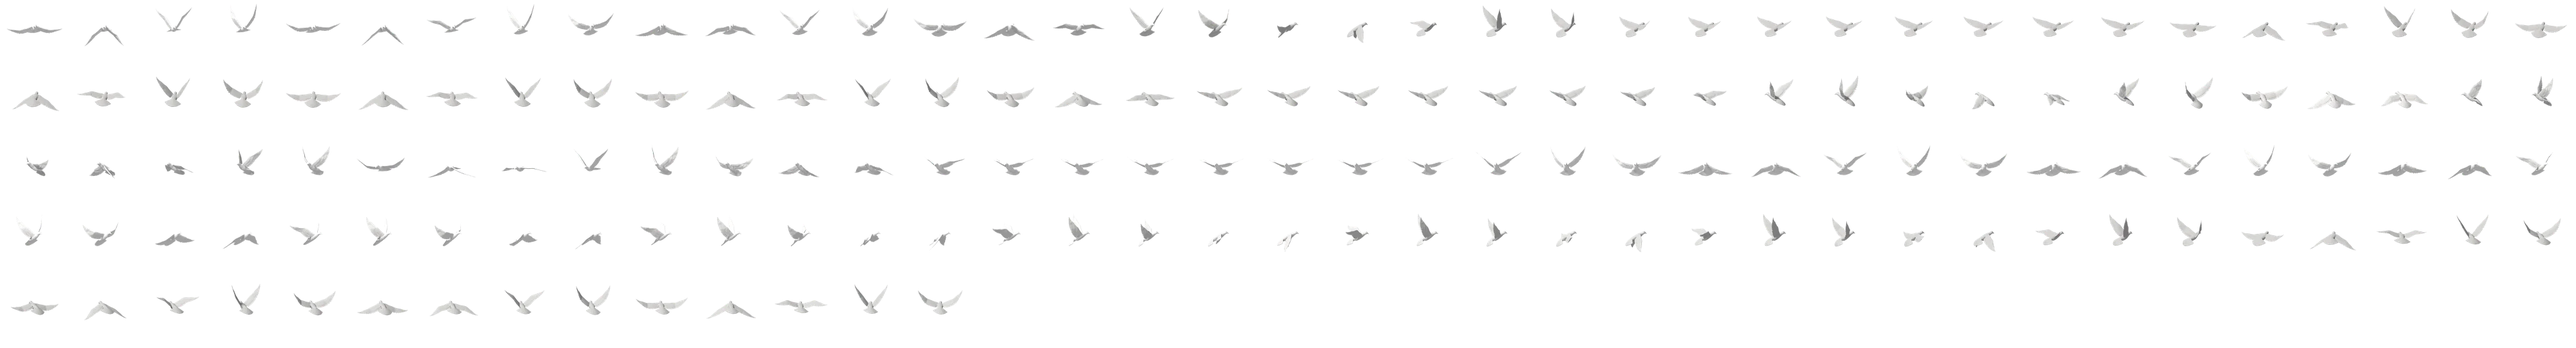
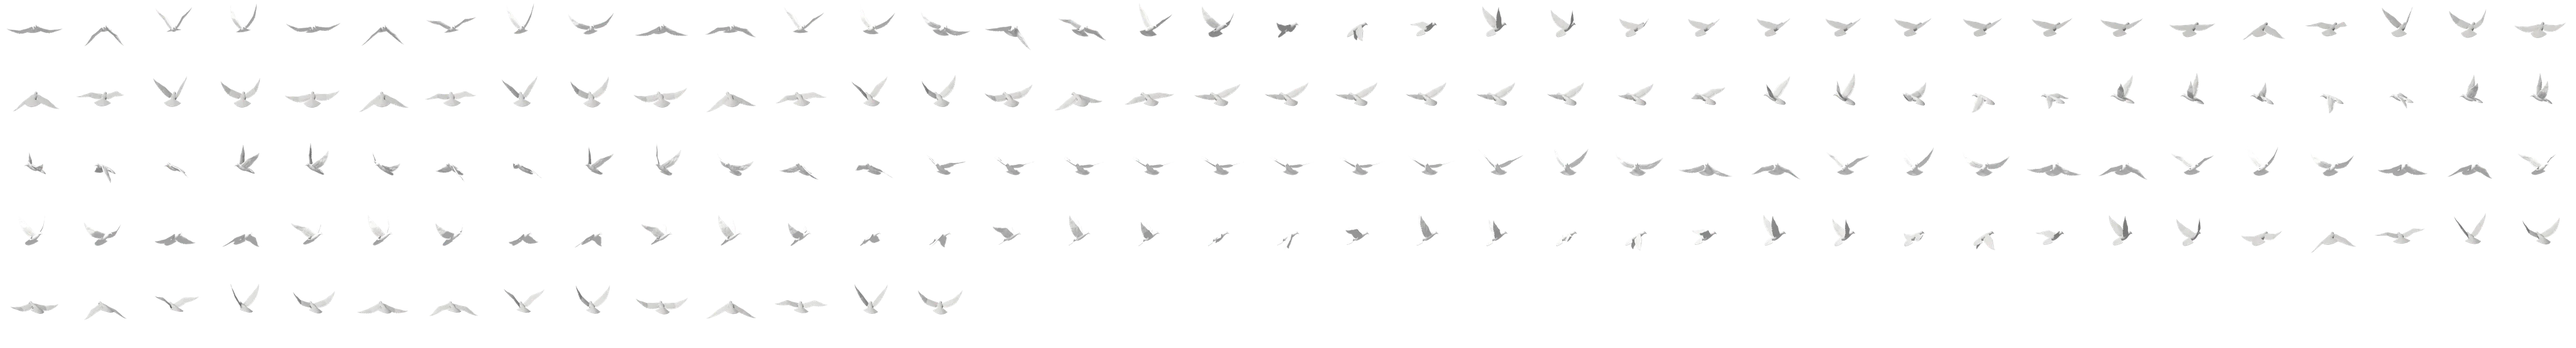
iOS port snapshot for cd3ee07

diff --git a/apps/ios/Sources/Ezer/Components/CameraDoveFrames.swift b/apps/ios/Sources/Ezer/Components/CameraDoveFrames.swift
@@ -19,12 +19,12 @@ enum CameraDoveFrames {
     static let bandRef: Double = 39.5
     static let posMin: Double = 0.75
     static let paths: [CameraDovePath] = [
-        CameraDovePath(id: "a", cell: 47.158, cols: 37, rows: 5, ni: 21, nl: 120, no: 21, sheet: "dove-camera-a",
-                       f: [0, -0.03, 0.4, 0, 0.12, 5.74, 0.451, 0.25, 0.85, 12.96, 0.5062, 0.5, 2.47, 19.94, 0.5653, 0.75, 5, 25.46, 0.6254, 1, 8.27, 29.13, 0.6824, 1, 12.03, 31.94, 0.7338, 1, 16, 33.2, 0.78, 1, 19.92, 33.06, 0.8249, 1, 23.44, 32.43, 0.8693, 1, 26.32, 32.45, 0.9124, 1, 28.52, 33.87, 0.9535, 1, 30.09, 34.29, 0.9916, 1, 31.21, 33.77, 1.0259, 1, 32.1, 32.92, 1.0556, 1, 33.02, 33.46, 1.08, 1, 34.23, 34.82, 1.0988, 1, 35.93, 34.78, 1.1118, 1, 38.29, 33.94, 1.1191, 1, 41.32, 32.99, 1.1212, 1, 44.94, 33.68, 1.1194, 1, 48.88, 34.84, 1.1151, 1, 52.74, 34.64, 1.11, 1, 56.46, 34.06, 1.1045, 1, 60, 34.02, 1.0988, 1, 63.38, 34.12, 1.0927, 1, 66.58, 34.23, 1.0864, 1, 69.59, 34.36, 1.0798, 1, 72.42, 34.47, 1.0729, 1, 75.07, 34.57, 1.0659, 1, 77.53, 34.63, 1.0586, 1, 79.8, 34.49, 1.0512, 1, 81.89, 33.82, 1.0436, 1, 83.79, 34.38, 1.0359, 1, 85.51, 35.39, 1.028, 1, 87.05, 35.12, 1.02, 1, 88.41, 34.2, 1.0119, 1, 89.6, 33.23, 1.0037, 1, 90.61, 33.69, 0.9953, 1, 91.44, 34.56, 0.9869, 1, 92.1, 34.25, 0.9784, 1, 92.59, 33.33, 0.9697, 1, 92.9, 32.34, 0.961, 1, 93.03, 32.67, 0.9522, 1, 92.99, 33.52, 0.9433, 1, 92.76, 33.28, 0.9343, 1, 92.36, 32.45, 0.9253, 1, 91.77, 31.49, 0.9163, 1, 91.01, 31.64, 0.9073, 1, 90.07, 32.56, 0.8983, 1, 88.96, 32.51, 0.8894, 1, 87.67, 31.86, 0.8805, 1, 86.22, 31.07, 0.8717, 1, 84.58, 31.24, 0.863, 1, 82.76, 31.56, 0.8542, 1, 80.73, 31.62, 0.8454, 1, 78.47, 31.65, 0.8366, 1, 75.96, 31.68, 0.8276, 1, 73.17, 31.71, 0.8186, 1, 70.07, 31.73, 0.8095, 1, 66.61, 31.68, 0.8003, 1, 62.77, 31.57, 0.791, 1, 58.49, 32.08, 0.7817, 1, 53.74, 32.18, 0.7726, 1, 48.47, 31.59, 0.7636, 1, 42.68, 30.77, 0.7551, 1, 36.34, 30.68, 0.7472, 1, 29.48, 31.47, 0.7403, 1, 21.46, 28.69, 0.7231, 1, 12.91, 21.49, 0.6918, 1, 5.19, 12.92, 0.6571, 1, -1.21, 6.39, 0.6296, 1, -6.8, 4.4, 0.6194, 1, -12.3, 4.51, 0.6221, 1, -17.56, 4.12, 0.6262, 1, -22.5, 3.54, 0.6314, 1, -27.07, 3.62, 0.6375, 1, -31.26, 4.42, 0.6442, 1, -35.05, 4.54, 0.6513, 1, -40.18, 6.93, 0.6707, 1, -47.81, 12.97, 0.7073, 1, -56.59, 20.99, 0.7503, 1, -64.72, 28.69, 0.7882, 1, -69.97, 31.82, 0.8092, 1, -72.81, 31.47, 0.8175, 1, -75.37, 30.87, 0.8257, 1, -77.69, 30.97, 0.8337, 1, -79.78, 31.79, 0.8416, 1, -81.68, 31.98, 0.8494, 1, -83.4, 32.2, 0.8572, 1, -84.97, 32.47, 0.865, 1, -86.39, 32.75, 0.8727, 1, -87.67, 33.03, 0.8805, 1, -88.83, 33.31, 0.8885, 1, -89.86, 33.6, 0.8965, 1, -90.76, 34.14, 0.9048, 1, -91.53, 34.77, 0.9132, 1, -92.15, 34.55, 0.9217, 1, -92.61, 33.88, 0.9304, 1, -92.91, 33.75, 0.9393, 1, -93.04, 34.97, 0.9484, 1, -92.97, 35.57, 0.9576, 1, -92.71, 35.21, 0.9669, 1, -92.23, 34.42, 0.9764, 1, -91.53, 34.13, 0.9859, 1, -90.6, 35.34, 0.9954, 1, -89.42, 35.98, 1.005, 1, -87.99, 35.58, 1.0145, 1, -86.31, 34.72, 1.024, 1, -84.38, 34.4, 1.0333, 1, -82.2, 35.67, 1.0424, 1, -79.77, 36.29, 1.0513, 1, -77.09, 35.82, 1.06, 1, -74.18, 34.89, 1.0683, 1, -71.05, 34.57, 1.0763, 1, -67.7, 35.89, 1.084, 1, -64.15, 36.45, 1.0912, 1, -60.41, 35.93, 1.0981, 1, -56.5, 34.94, 1.1045, 1, -52.43, 34.58, 1.1104, 1, -48.21, 35.87, 1.1159, 1, -43.85, 36.45, 1.1209, 1, -39.38, 35.91, 1.1254, 1, -34.8, 34.88, 1.1294, 1, -30.14, 34.36, 1.1328, 1, -25.4, 35.55, 1.1358, 1, -20.6, 36.24, 1.1382, 1, -15.76, 35.74, 1.1402, 1, -10.88, 34.71, 1.1416, 1, -5.99, 33.97, 1.1425, 1, -1.1, 34.97, 1.1428, 1, 3.78, 35.83, 1.1427, 1, 8.63, 35.4, 1.1421, 1, 13.45, 34.39, 1.1409, 1, 18.2, 33.47, 1.1393, 1, 22.89, 34.26, 1.1371, 1, 27.49, 35.25, 1.1346, 1, 32.01, 34.92, 1.1315, 1, 36.41, 33.96, 1.128, 1, 40.7, 33.01, 1.1241, 1, 44.86, 33.7, 1.1198, 1, 48.88, 34.84, 1.1151, 1, 52.63, 34.69, 1.1098, 1, 55.65, 33.95, 1.1031, 1, 57.52, 33.31, 1.0942, 1, 58.06, 34.45, 1.0825, 1, 57.21, 35.97, 1.0677, 1, 55.07, 36.16, 1.0497, 1, 51.82, 35.68, 1.0285, 1, 47.73, 35.27, 1.0043, 1, 43.07, 36.37, 0.9773, 1, 38.17, 36.95, 0.9479, 1, 33.28, 36.07, 0.9165, 1, 28.65, 34.44, 0.8836, 1, 24.4, 33.14, 0.8496, 1, 20.56, 32.91, 0.815, 1, 17, 31.65, 0.78, 1, 13.36, 29.18, 0.7406, 0.8, 9.28, 24.82, 0.6832, 0.6, 5.22, 19.58, 0.6087, 0.4, 2.01, 13.41, 0.5294, 0.2, 0.32, 6.44, 0.4584, 0]),
-        CameraDovePath(id: "b", cell: 47.053, cols: 41, rows: 5, ni: 21, nl: 150, no: 21, sheet: "dove-camera-b",
-                       f: [0, -0.03, 0.4, 0, 0.26, 5.58, 0.4502, 0.25, 1.8, 12.03, 0.5013, 0.5, 5.15, 17.77, 0.5528, 0.75, 10.22, 22.17, 0.6036, 1, 16.54, 25.47, 0.6518, 1, 23.41, 28.85, 0.696, 1, 30.16, 31.14, 0.7352, 1, 36.37, 31.41, 0.7693, 1, 42, 30.57, 0.8, 1, 47.6, 30.21, 0.83, 1, 53.64, 31.14, 0.8601, 1, 60.19, 31.22, 0.89, 1, 67.02, 30.51, 0.9189, 1, 73.67, 29.57, 0.9462, 1, 79.55, 29.92, 0.9709, 1, 84.07, 31.09, 0.992, 1, 86.67, 31.06, 1.0088, 1, 87, 30.34, 1.0206, 1, 84.95, 29.55, 1.0271, 1, 80.76, 30.3, 1.0284, 1, 75.15, 31.5, 1.0251, 1, 69.12, 31.5, 1.0184, 1, 63.12, 30.91, 1.009, 1, 57.3, 30.31, 0.9979, 1, 51.68, 31.13, 0.9858, 1, 46.26, 32.41, 0.9731, 1, 41.05, 32.52, 0.9602, 1, 36.03, 32.02, 0.9474, 1, 30.64, 30.24, 0.9246, 1, 23.12, 23.18, 0.8492, 1, 15.9, 13.66, 0.7544, 1, 10.75, 5.73, 0.6832, 1, 7.82, 3.99, 0.6649, 1, 5.23, 3.44, 0.6565, 1, 2.69, 3.8, 0.6484, 1, 0.19, 4.52, 0.6406, 1, -2.28, 4.46, 0.633, 1, -4.72, 4, 0.6258, 1, -7.13, 3.47, 0.6188, 1, -9.8, 5.02, 0.6209, 1, -14.4, 13.53, 0.6697, 1, -20.73, 23.88, 0.7363, 1, -27.15, 30.92, 0.7833, 1, -31.48, 31.27, 0.7845, 1, -35.32, 31.42, 0.7775, 1, -39.14, 32.11, 0.771, 1, -42.93, 31.91, 0.7649, 1, -46.71, 31.2, 0.7591, 1, -50.47, 30.34, 0.7538, 1, -54.21, 30.37, 0.749, 1, -57.93, 31.09, 0.7446, 1, -61.62, 31.02, 0.7407, 1, -65.27, 30.42, 0.7374, 1, -68.87, 29.64, 0.7345, 1, -72.41, 29.56, 0.7322, 1, -75.87, 30.37, 0.7305, 1, -79.23, 30.55, 0.7294, 1, -82.49, 30.13, 0.729, 1, -85.66, 29.63, 0.7291, 1, -88.78, 29.76, 0.7299, 1, -91.89, 29.96, 0.7314, 1, -95.05, 30.01, 0.7338, 1, -98.26, 30.08, 0.7373, 1, -101.49, 29.97, 0.7422, 1, -104.58, 29.81, 0.7485, 1, -107.39, 30.57, 0.756, 1, -109.83, 31.02, 0.7645, 1, -111.88, 30.71, 0.7737, 1, -113.56, 30.06, 0.7834, 1, -114.9, 29.77, 0.7933, 1, -115.97, 30.69, 0.8035, 1, -116.78, 31.2, 0.8139, 1, -117.37, 30.87, 0.8244, 1, -117.76, 30.14, 0.8351, 1, -117.96, 29.76, 0.8459, 1, -117.99, 30.71, 0.8568, 1, -117.86, 31.27, 0.8679, 1, -117.56, 30.91, 0.8791, 1, -117.11, 30.13, 0.8903, 1, -116.5, 29.72, 0.9017, 1, -115.72, 30.75, 0.9131, 1, -114.78, 31.34, 0.9246, 1, -113.67, 30.94, 0.936, 1, -112.37, 30.11, 0.9473, 1, -110.89, 29.7, 0.9584, 1, -109.22, 30.79, 0.9692, 1, -107.36, 31.42, 0.9796, 1, -105.29, 31.01, 0.9894, 1, -103.03, 30.16, 0.9984, 1, -100.54, 29.72, 1.0066, 1, -97.79, 30.85, 1.0138, 1, -94.67, 31.57, 1.0201, 1, -91.02, 31.22, 1.0251, 1, -86.66, 30.42, 1.0283, 1, -81.52, 29.99, 1.0287, 1, -75.76, 31.2, 1.0257, 1, -69.71, 32.17, 1.0191, 1, -63.66, 32.05, 1.0099, 1, -57.76, 31.46, 0.9989, 1, -52.07, 31.1, 0.9867, 1, -46.57, 32.24, 0.9739, 1, -41.28, 33.36, 0.9608, 1, -36.18, 33.38, 0.9477, 1, -31.26, 32.9, 0.9348, 1, -26.48, 32.44, 0.9222, 1, -21.83, 33.29, 0.9098, 1, -17.3, 34.42, 0.8978, 1, -12.85, 34.34, 0.8861, 1, -8.5, 34.1, 0.8748, 1, -4.21, 34.1, 0.8639, 1, 0, 34.25, 0.8533, 1, 4.15, 34.16, 0.8432, 1, 8.25, 33.5, 0.8335, 1, 12.3, 33.82, 0.8242, 1, 16.3, 34.67, 0.8153, 1, 20.27, 34.57, 0.8067, 1, 24.19, 33.88, 0.7986, 1, 28.08, 33, 0.7909, 1, 31.94, 32.99, 0.7836, 1, 35.77, 33.73, 0.7767, 1, 39.57, 33.63, 0.7703, 1, 43.35, 32.93, 0.7642, 1, 47.11, 32.03, 0.7586, 1, 50.84, 31.89, 0.7534, 1, 54.55, 32.62, 0.7486, 1, 58.22, 32.58, 0.7443, 1, 61.87, 31.94, 0.7405, 1, 65.48, 31.1, 0.7372, 1, 69.03, 30.98, 0.7344, 1, 72.52, 31.76, 0.7322, 1, 75.92, 31.81, 0.7305, 1, 79.23, 31.27, 0.7294, 1, 82.44, 30.53, 0.729, 1, 85.57, 30.53, 0.7291, 1, 88.64, 31.25, 0.7298, 1, 91.71, 31.13, 0.7313, 1, 94.82, 30.97, 0.7336, 1, 97.99, 30.99, 0.737, 1, 101.18, 31.02, 0.7416, 1, 104.26, 31.22, 0.7477, 1, 107.08, 31.51, 0.7551, 1, 109.55, 31.25, 0.7634, 1, 111.63, 30.56, 0.7725, 1, 113.35, 30.57, 0.7821, 1, 114.74, 31.53, 0.792, 1, 115.84, 31.74, 0.8021, 1, 116.69, 31.26, 0.8125, 1, 117.31, 30.49, 0.8231, 1, 117.72, 30.34, 0.8338, 1, 117.95, 31.32, 0.8447, 1, 118, 31.64, 0.8557, 1, 117.88, 31.19, 0.8669, 1, 117.59, 30.38, 0.8782, 1, 117.14, 30.03, 0.8896, 1, 116.53, 31, 0.9011, 1, 115.75, 31.53, 0.9127, 1, 114.8, 31.13, 0.9243, 1, 113.68, 30.31, 0.9359, 1, 112.37, 29.76, 0.9473, 1, 110.86, 30.65, 0.9586, 1, 109.16, 31.4, 0.9696, 1, 107.26, 31.09, 0.9801, 1, 105.16, 30.27, 0.9899, 1, 102.86, 29.56, 0.999, 1, 100.33, 30.35, 1.0072, 1, 97.52, 31.3, 1.0144, 1, 94.34, 31.1, 1.0206, 1, 90.61, 30.32, 1.0255, 1, 86.16, 29.56, 1.0285, 1, 80.94, 30.33, 1.0286, 1, 75.15, 31.5, 1.0251, 1, 69.11, 31.52, 1.0184, 1, 63.06, 31.07, 1.009, 1, 57.17, 30.8, 0.9975, 1, 51.56, 32.23, 0.9841, 1, 46.33, 34, 0.9688, 1, 41.5, 34.53, 0.9514, 1, 37.1, 34.34, 0.9317, 1, 33.11, 34.06, 0.9097, 1, 29.48, 34.97, 0.8852, 1, 26.15, 35.26, 0.8584, 1, 23.02, 34.14, 0.8298, 1, 20, 32.41, 0.8, 1, 16.96, 31.13, 0.7695, 1, 13.77, 30.66, 0.7365, 1, 10.47, 28.72, 0.6994, 1, 7.27, 25.3, 0.6577, 0.8, 4.42, 20.94, 0.6116, 0.6, 2.2, 16.76, 0.5617, 0.4, 0.76, 12.11, 0.5091, 0.2, 0.11, 6.21, 0.4549, 0]),
-        CameraDovePath(id: "c", cell: 47.218, cols: 35, rows: 7, ni: 21, nl: 170, no: 21, sheet: "dove-camera-c",
-                       f: [0, -0.03, 0.4, 0, 0.33, 5.58, 0.4491, 0.25, 2.28, 11.98, 0.4939, 0.5, 6.54, 17.61, 0.5327, 0.75, 13.04, 21.89, 0.566, 1, 21.18, 25.08, 0.5956, 1, 30.12, 28.24, 0.624, 1, 39.03, 30.3, 0.6535, 1, 47.34, 30.48, 0.6855, 1, 55, 29.61, 0.72, 1, 62.49, 29.15, 0.7554, 1, 69.86, 29.82, 0.7926, 1, 76.95, 29.61, 0.8325, 1, 83.55, 28.56, 0.8752, 1, 89.48, 27.19, 0.9202, 1, 94.58, 27, 0.9663, 1, 98.82, 27.64, 1.0122, 1, 102.23, 27.08, 1.0563, 1, 105.06, 25.8, 1.0971, 1, 107.71, 24.43, 1.1333, 1, 110.85, 24.75, 1.164, 1, 115.4, 25.58, 1.1887, 1, 122.31, 24.94, 1.2054, 1, 129.64, 23.63, 1.2067, 1, 135.15, 22.45, 1.197, 1, 138.97, 23.14, 1.1822, 1, 141.62, 24.24, 1.1652, 1, 143.48, 23.93, 1.1474, 1, 144.75, 22.96, 1.1293, 1, 145.57, 22.09, 1.1108, 1, 145.96, 22.96, 1.092, 1, 145.93, 24.05, 1.073, 1, 145.49, 23.87, 1.0535, 1, 144.67, 23.14, 1.0338, 1, 143.5, 22.59, 1.0139, 1, 142.06, 23.71, 0.994, 1, 140.41, 24.85, 0.9743, 1, 138.6, 24.84, 0.9548, 1, 136.64, 24.36, 0.9357, 1, 134.56, 24.11, 0.917, 1, 132.34, 25.35, 0.8987, 1, 129.98, 26.42, 0.8808, 1, 127.44, 26.47, 0.8633, 1, 124.7, 26.08, 0.8462, 1, 121.69, 25.94, 0.8293, 1, 118.36, 27.1, 0.8128, 1, 114.7, 28.02, 0.7967, 1, 110.76, 28.03, 0.7811, 1, 106.63, 27.69, 0.7661, 1, 102.39, 27.6, 0.7519, 1, 98.11, 28.73, 0.7383, 1, 93.83, 29.62, 0.7254, 1, 89.58, 29.7, 0.7132, 1, 85.37, 29.44, 0.7018, 1, 81.19, 29.37, 0.6911, 1, 77.01, 30.36, 0.681, 1, 72.83, 31.18, 0.6715, 1, 68.63, 31.23, 0.6626, 1, 64.37, 30.92, 0.6543, 1, 60.02, 30.7, 0.6465, 1, 55.53, 31.42, 0.6394, 1, 50.98, 32.04, 0.6332, 1, 46.4, 31.88, 0.6277, 1, 41.72, 31.33, 0.6228, 1, 37.07, 30.79, 0.6184, 1, 32.59, 31.17, 0.6141, 1, 28.38, 31.69, 0.6099, 1, 24.18, 30.77, 0.6032, 1, 18.77, 25.2, 0.5824, 1, 13.44, 17.07, 0.5535, 1, 9.06, 9.74, 0.5253, 1, 6.01, 5.18, 0.506, 1, 4.12, 4.35, 0.5013, 1, 2.25, 3.98, 0.4998, 1, 0.28, 3.57, 0.4998, 1, -1.56, 3.86, 0.5023, 1, -3.11, 4.41, 0.5065, 1, -4.6, 5.13, 0.5141, 1, -7.15, 9.84, 0.5373, 1, -11.19, 17.06, 0.5707, 1, -16.68, 25.09, 0.6049, 1, -23.03, 30.87, 0.6296, 1, -28.81, 31.6, 0.638, 1, -34.78, 31.2, 0.6438, 1, -41.01, 30.81, 0.6509, 1, -47.03, 31.43, 0.6604, 1, -52.43, 32.26, 0.6728, 1, -57.16, 32.28, 0.6875, 1, -61.43, 31.93, 0.7039, 1, -65.37, 31.98, 0.722, 1, -69.08, 32.16, 0.7416, 1, -72.62, 32.17, 0.7628, 1, -76.04, 32.07, 0.7857, 1, -79.37, 31.68, 0.8105, 1, -82.65, 30.83, 0.8371, 1, -85.85, 30.73, 0.8659, 1, -88.95, 30.76, 0.897, 1, -91.92, 29.63, 0.9305, 1, -94.73, 27.97, 0.9661, 1, -97.36, 26.55, 1.003, 1, -99.85, 26.89, 1.04, 1, -102.28, 27.33, 1.0753, 1, -104.67, 26.62, 1.107, 1, -107.01, 25.37, 1.1333, 1, -109.48, 24.33, 1.1553, 1, -112.88, 25.07, 1.1772, 1, -118.56, 25.63, 1.1986, 1, -126.14, 24.82, 1.2079, 1, -132.61, 23.53, 1.2028, 1, -137.19, 22.58, 1.1901, 1, -140.36, 23.52, 1.1742, 1, -142.57, 24.45, 1.157, 1, -144.12, 24.05, 1.1392, 1, -145.16, 23.09, 1.1212, 1, -145.78, 22.3, 1.1029, 1, -146, 23.22, 1.0843, 1, -145.81, 24.28, 1.0653, 1, -145.22, 24.14, 1.046, 1, -144.27, 23.47, 1.0265, 1, -143.02, 22.9, 1.0069, 1, -141.53, 23.84, 0.9873, 1, -139.84, 25.1, 0.9679, 1, -138, 25.24, 0.9488, 1, -136.03, 24.85, 0.93, 1, -133.94, 24.45, 0.9117, 1, -131.7, 25.34, 0.8937, 1, -129.31, 26.65, 0.8761, 1, -126.74, 26.91, 0.8588, 1, -123.95, 26.63, 0.8418, 1, -120.87, 26.27, 0.8251, 1, -117.46, 27, 0.8087, 1, -113.72, 28.22, 0.7927, 1, -109.72, 28.49, 0.7773, 1, -105.55, 28.25, 0.7625, 1, -101.29, 27.94, 0.7483, 1, -97, 28.64, 0.7348, 1, -92.72, 29.83, 0.7221, 1, -88.47, 30.14, 0.71, 1, -84.26, 29.95, 0.6988, 1, -80.06, 29.68, 0.6881, 1, -75.85, 30.35, 0.6781, 1, -71.62, 31.4, 0.6687, 1, -67.34, 31.6, 0.6598, 1, -62.97, 31.33, 0.6516, 1, -58.47, 30.99, 0.644, 1, -53.89, 31.52, 0.6373, 1, -49.26, 32.26, 0.6315, 1, -44.58, 32.14, 0.6263, 1, -39.8, 31.58, 0.6216, 1, -35.14, 30.99, 0.6171, 1, -30.74, 31.37, 0.6126, 1, -26.71, 31.87, 0.608, 1, -22.79, 30.88, 0.6009, 1, -17.79, 25.23, 0.5799, 1, -12.84, 17.09, 0.551, 1, -8.67, 9.86, 0.5226, 1, -5.72, 5.21, 0.503, 1, -3.85, 4.29, 0.4979, 1, -1.99, 3.87, 0.4962, 1, 0, 3.55, 0.4964, 1, 1.79, 4.03, 0.4993, 1, 3.24, 4.45, 0.5038, 1, 4.63, 5.05, 0.5117, 1, 7.04, 9.67, 0.535, 1, 10.82, 16.93, 0.5684, 1, 15.93, 25.1, 0.6029, 1, 21.82, 30.72, 0.6283, 1, 27.33, 31.36, 0.6372, 1, 33.15, 30.94, 0.6429, 1, 39.36, 30.63, 0.6493, 1, 45.51, 31.34, 0.6578, 1, 51.11, 32.14, 0.6693, 1, 55.98, 32.09, 0.6833, 1, 60.32, 31.98, 0.6992, 1, 64.3, 32.06, 0.7166, 1, 68.02, 32.16, 0.7355, 1, 71.55, 32.2, 0.756, 1, 74.94, 32.19, 0.778, 1, 78.24, 31.81, 0.8018, 1, 81.49, 30.83, 0.8274, 1, 84.66, 30.84, 0.855, 1, 87.76, 30.97, 0.8848, 1, 90.74, 29.96, 0.9169, 1, 93.59, 28.33, 0.9511, 1, 96.25, 26.73, 0.9871, 1, 98.76, 26.7, 1.0237, 1, 101.18, 27.27, 1.0596, 1, 103.57, 26.71, 1.0929, 1, 105.9, 25.52, 1.1215, 1, 108.23, 24.29, 1.1449, 1, 111, 24.72, 1.1661, 1, 115.4, 25.58, 1.1887, 1, 121.91, 24.98, 1.2059, 1, 128.64, 23.86, 1.2089, 1, 133.92, 23.14, 1.1934, 1, 136.79, 24.69, 1.1594, 1, 136.86, 26.87, 1.1095, 1, 134.2, 27.83, 1.0487, 1, 129.19, 28.23, 0.9828, 1, 122.43, 28.71, 0.9179, 1, 114.59, 30.38, 0.8593, 1, 106.31, 31.31, 0.8102, 1, 98.06, 30.8, 0.7715, 1, 90, 29.64, 0.74, 1, 81.47, 28.88, 0.7102, 1, 70.58, 28.83, 0.6811, 1, 56.89, 27.36, 0.652, 1, 41.5, 24.4, 0.6215, 0.8, 26.34, 20.43, 0.5878, 0.6, 13.56, 16.5, 0.5491, 0.4, 4.83, 12.02, 0.5046, 0.2, 0.72, 6.19, 0.4542, 0]),
+        CameraDovePath(id: "a", cell: 47.132, cols: 37, rows: 5, ni: 21, nl: 120, no: 21, sheet: "dove-camera-a",
+                       f: [0, -0.03, 0.4, 0, 0.12, 5.74, 0.451, 0.25, 0.85, 12.96, 0.5062, 0.5, 2.47, 19.94, 0.5653, 0.75, 5, 25.46, 0.6254, 1, 8.27, 29.13, 0.6824, 1, 12.03, 31.94, 0.7338, 1, 16, 33.2, 0.78, 1, 19.92, 33.06, 0.8249, 1, 23.44, 32.43, 0.8693, 1, 26.32, 32.45, 0.9124, 1, 28.52, 33.87, 0.9535, 1, 30.09, 34.29, 0.9916, 1, 31.21, 33.77, 1.0259, 1, 32.1, 32.92, 1.0556, 1, 33.02, 33.46, 1.08, 1, 34.23, 34.82, 1.0988, 1, 35.93, 34.78, 1.1118, 1, 38.29, 33.94, 1.1191, 1, 41.32, 32.99, 1.1212, 1, 44.94, 33.68, 1.1194, 1, 48.88, 34.84, 1.1151, 1, 52.74, 34.64, 1.11, 1, 56.46, 34.06, 1.1045, 1, 60, 34.02, 1.0988, 1, 63.38, 34.12, 1.0927, 1, 66.58, 34.23, 1.0864, 1, 69.59, 34.36, 1.0798, 1, 72.42, 34.47, 1.0729, 1, 75.07, 34.57, 1.0659, 1, 77.53, 34.63, 1.0586, 1, 79.8, 34.49, 1.0512, 1, 81.89, 33.82, 1.0436, 1, 83.79, 34.38, 1.0359, 1, 85.51, 35.39, 1.028, 1, 87.05, 35.12, 1.02, 1, 88.41, 34.2, 1.0119, 1, 89.6, 33.23, 1.0037, 1, 90.61, 33.69, 0.9953, 1, 91.44, 34.56, 0.9869, 1, 92.1, 34.25, 0.9784, 1, 92.59, 33.33, 0.9697, 1, 92.9, 32.34, 0.961, 1, 93.03, 32.67, 0.9522, 1, 92.99, 33.52, 0.9433, 1, 92.76, 33.28, 0.9343, 1, 92.36, 32.45, 0.9253, 1, 91.77, 31.49, 0.9163, 1, 91.01, 31.64, 0.9073, 1, 90.07, 32.56, 0.8983, 1, 88.96, 32.51, 0.8894, 1, 87.67, 31.86, 0.8805, 1, 86.22, 31.07, 0.8717, 1, 84.58, 31.24, 0.863, 1, 82.76, 31.56, 0.8542, 1, 80.73, 31.62, 0.8454, 1, 78.47, 31.65, 0.8366, 1, 75.96, 31.68, 0.8276, 1, 73.17, 31.71, 0.8186, 1, 70.07, 31.73, 0.8095, 1, 66.61, 31.68, 0.8003, 1, 62.77, 31.57, 0.791, 1, 58.49, 32.08, 0.7817, 1, 53.74, 32.18, 0.7726, 1, 48.47, 31.59, 0.7636, 1, 42.68, 30.77, 0.7551, 1, 36.34, 30.68, 0.7472, 1, 29.48, 31.47, 0.7403, 1, 22.15, 31.49, 0.7346, 1, 14.43, 30.92, 0.7304, 1, 6.45, 30.16, 0.7279, 1, -1.66, 30.18, 0.7273, 1, -9.72, 31.05, 0.7287, 1, -17.58, 31.17, 0.7319, 1, -25.09, 30.71, 0.7367, 1, -32.14, 30.07, 0.7428, 1, -38.68, 30.2, 0.75, 1, -44.65, 31.18, 0.7579, 1, -50.07, 31.39, 0.7662, 1, -54.95, 30.98, 0.7748, 1, -59.34, 30.34, 0.7835, 1, -63.28, 30.45, 0.7922, 1, -66.8, 31.51, 0.8007, 1, -69.97, 31.82, 0.8092, 1, -72.81, 31.47, 0.8175, 1, -75.37, 30.87, 0.8257, 1, -77.69, 30.97, 0.8337, 1, -79.78, 31.79, 0.8416, 1, -81.68, 31.98, 0.8494, 1, -83.4, 32.2, 0.8572, 1, -84.97, 32.47, 0.865, 1, -86.39, 32.75, 0.8727, 1, -87.67, 33.03, 0.8805, 1, -88.83, 33.31, 0.8885, 1, -89.86, 33.6, 0.8965, 1, -90.76, 34.14, 0.9048, 1, -91.53, 34.77, 0.9132, 1, -92.15, 34.55, 0.9217, 1, -92.61, 33.88, 0.9304, 1, -92.91, 33.75, 0.9393, 1, -93.04, 34.97, 0.9484, 1, -92.97, 35.57, 0.9576, 1, -92.71, 35.21, 0.9669, 1, -92.23, 34.42, 0.9764, 1, -91.53, 34.13, 0.9859, 1, -90.6, 35.34, 0.9954, 1, -89.42, 35.98, 1.005, 1, -87.99, 35.58, 1.0145, 1, -86.31, 34.72, 1.024, 1, -84.38, 34.4, 1.0333, 1, -82.2, 35.67, 1.0424, 1, -79.77, 36.29, 1.0513, 1, -77.09, 35.82, 1.06, 1, -74.18, 34.89, 1.0683, 1, -71.05, 34.57, 1.0763, 1, -67.7, 35.89, 1.084, 1, -64.15, 36.45, 1.0912, 1, -60.41, 35.93, 1.0981, 1, -56.5, 34.94, 1.1045, 1, -52.43, 34.58, 1.1104, 1, -48.21, 35.87, 1.1159, 1, -43.85, 36.45, 1.1209, 1, -39.38, 35.91, 1.1254, 1, -34.8, 34.88, 1.1294, 1, -30.14, 34.36, 1.1328, 1, -25.4, 35.55, 1.1358, 1, -20.6, 36.24, 1.1382, 1, -15.76, 35.74, 1.1402, 1, -10.88, 34.71, 1.1416, 1, -5.99, 33.97, 1.1425, 1, -1.1, 34.97, 1.1428, 1, 3.78, 35.83, 1.1427, 1, 8.63, 35.4, 1.1421, 1, 13.45, 34.39, 1.1409, 1, 18.2, 33.47, 1.1393, 1, 22.89, 34.26, 1.1371, 1, 27.49, 35.25, 1.1346, 1, 32.01, 34.92, 1.1315, 1, 36.41, 33.96, 1.128, 1, 40.7, 33.01, 1.1241, 1, 44.86, 33.7, 1.1198, 1, 48.88, 34.84, 1.1151, 1, 52.63, 34.69, 1.1098, 1, 55.65, 33.95, 1.1031, 1, 57.52, 33.31, 1.0942, 1, 58.06, 34.45, 1.0825, 1, 57.21, 35.97, 1.0677, 1, 55.07, 36.16, 1.0497, 1, 51.82, 35.68, 1.0285, 1, 47.73, 35.27, 1.0043, 1, 43.07, 36.37, 0.9773, 1, 38.17, 36.95, 0.9479, 1, 33.28, 36.07, 0.9165, 1, 28.65, 34.44, 0.8836, 1, 24.4, 33.14, 0.8496, 1, 20.56, 32.91, 0.815, 1, 17, 31.65, 0.78, 1, 13.36, 29.18, 0.7406, 0.8, 9.28, 24.82, 0.6832, 0.6, 5.22, 19.58, 0.6087, 0.4, 2.01, 13.41, 0.5294, 0.2, 0.32, 6.44, 0.4584, 0]),
+        CameraDovePath(id: "b", cell: 47.039, cols: 41, rows: 5, ni: 21, nl: 150, no: 21, sheet: "dove-camera-b",
+                       f: [0, -0.03, 0.4, 0, 0.26, 5.58, 0.4502, 0.25, 1.8, 12.03, 0.5013, 0.5, 5.15, 17.77, 0.5528, 0.75, 10.22, 22.17, 0.6036, 1, 16.54, 25.47, 0.6518, 1, 23.41, 28.85, 0.696, 1, 30.16, 31.14, 0.7352, 1, 36.37, 31.41, 0.7693, 1, 42, 30.57, 0.8, 1, 47.6, 30.21, 0.83, 1, 53.64, 31.14, 0.8601, 1, 60.19, 31.22, 0.89, 1, 67.02, 30.51, 0.9189, 1, 73.67, 29.57, 0.9462, 1, 79.55, 29.92, 0.9709, 1, 84.07, 31.09, 0.992, 1, 86.67, 31.06, 1.0088, 1, 87, 30.34, 1.0206, 1, 84.95, 29.55, 1.0271, 1, 80.76, 30.3, 1.0284, 1, 75.15, 31.5, 1.0251, 1, 69.12, 31.5, 1.0184, 1, 63.12, 30.91, 1.009, 1, 57.3, 30.31, 0.9979, 1, 51.68, 31.13, 0.9858, 1, 46.26, 32.41, 0.9731, 1, 41.05, 32.52, 0.9602, 1, 36.03, 32.02, 0.9474, 1, 31.18, 31.45, 0.9346, 1, 26.47, 32.16, 0.9221, 1, 21.89, 33.32, 0.9099, 1, 17.41, 33.35, 0.8981, 1, 13.03, 32.79, 0.8865, 1, 8.72, 32.12, 0.8754, 1, 4.49, 32.63, 0.8645, 1, 0.32, 33.58, 0.8541, 1, -3.8, 33.47, 0.8441, 1, -7.87, 32.79, 0.8344, 1, -11.89, 32, 0.8251, 1, -15.87, 32.31, 0.8162, 1, -19.82, 33.08, 0.8077, 1, -23.73, 32.87, 0.7996, 1, -27.62, 32.12, 0.7918, 1, -31.48, 31.27, 0.7845, 1, -35.32, 31.42, 0.7775, 1, -39.14, 32.11, 0.771, 1, -42.93, 31.91, 0.7649, 1, -46.71, 31.2, 0.7591, 1, -50.47, 30.34, 0.7538, 1, -54.21, 30.37, 0.749, 1, -57.93, 31.09, 0.7446, 1, -61.62, 31.02, 0.7407, 1, -65.27, 30.42, 0.7374, 1, -68.87, 29.64, 0.7345, 1, -72.41, 29.56, 0.7322, 1, -75.87, 30.37, 0.7305, 1, -79.23, 30.55, 0.7294, 1, -82.49, 30.13, 0.729, 1, -85.66, 29.63, 0.7291, 1, -88.78, 29.76, 0.7299, 1, -91.89, 29.96, 0.7314, 1, -95.05, 30.01, 0.7338, 1, -98.26, 30.08, 0.7373, 1, -101.49, 29.97, 0.7422, 1, -104.58, 29.81, 0.7485, 1, -107.39, 30.57, 0.756, 1, -109.83, 31.02, 0.7645, 1, -111.88, 30.71, 0.7737, 1, -113.56, 30.06, 0.7834, 1, -114.9, 29.77, 0.7933, 1, -115.97, 30.69, 0.8035, 1, -116.78, 31.2, 0.8139, 1, -117.37, 30.87, 0.8244, 1, -117.76, 30.14, 0.8351, 1, -117.96, 29.76, 0.8459, 1, -117.99, 30.71, 0.8568, 1, -117.86, 31.27, 0.8679, 1, -117.56, 30.91, 0.8791, 1, -117.11, 30.13, 0.8903, 1, -116.5, 29.72, 0.9017, 1, -115.72, 30.75, 0.9131, 1, -114.78, 31.34, 0.9246, 1, -113.67, 30.94, 0.936, 1, -112.37, 30.11, 0.9473, 1, -110.89, 29.7, 0.9584, 1, -109.22, 30.79, 0.9692, 1, -107.36, 31.42, 0.9796, 1, -105.29, 31.01, 0.9894, 1, -103.03, 30.16, 0.9984, 1, -100.54, 29.72, 1.0066, 1, -97.79, 30.85, 1.0138, 1, -94.67, 31.57, 1.0201, 1, -91.02, 31.22, 1.0251, 1, -86.66, 30.42, 1.0283, 1, -81.52, 29.99, 1.0287, 1, -75.76, 31.2, 1.0257, 1, -69.71, 32.17, 1.0191, 1, -63.66, 32.05, 1.0099, 1, -57.76, 31.46, 0.9989, 1, -52.07, 31.1, 0.9867, 1, -46.57, 32.24, 0.9739, 1, -41.28, 33.36, 0.9608, 1, -36.18, 33.38, 0.9477, 1, -31.26, 32.9, 0.9348, 1, -26.48, 32.44, 0.9222, 1, -21.83, 33.29, 0.9098, 1, -17.3, 34.42, 0.8978, 1, -12.85, 34.34, 0.8861, 1, -8.5, 34.1, 0.8748, 1, -4.21, 34.1, 0.8639, 1, 0, 34.25, 0.8533, 1, 4.15, 34.16, 0.8432, 1, 8.25, 33.5, 0.8335, 1, 12.3, 33.82, 0.8242, 1, 16.3, 34.67, 0.8153, 1, 20.27, 34.57, 0.8067, 1, 24.19, 33.88, 0.7986, 1, 28.08, 33, 0.7909, 1, 31.94, 32.99, 0.7836, 1, 35.77, 33.73, 0.7767, 1, 39.57, 33.63, 0.7703, 1, 43.35, 32.93, 0.7642, 1, 47.11, 32.03, 0.7586, 1, 50.84, 31.89, 0.7534, 1, 54.55, 32.62, 0.7486, 1, 58.22, 32.58, 0.7443, 1, 61.87, 31.94, 0.7405, 1, 65.48, 31.1, 0.7372, 1, 69.03, 30.98, 0.7344, 1, 72.52, 31.76, 0.7322, 1, 75.92, 31.81, 0.7305, 1, 79.23, 31.27, 0.7294, 1, 82.44, 30.53, 0.729, 1, 85.57, 30.53, 0.7291, 1, 88.64, 31.25, 0.7298, 1, 91.71, 31.13, 0.7313, 1, 94.82, 30.97, 0.7336, 1, 97.99, 30.99, 0.737, 1, 101.18, 31.02, 0.7416, 1, 104.26, 31.22, 0.7477, 1, 107.08, 31.51, 0.7551, 1, 109.55, 31.25, 0.7634, 1, 111.63, 30.56, 0.7725, 1, 113.35, 30.57, 0.7821, 1, 114.74, 31.53, 0.792, 1, 115.84, 31.74, 0.8021, 1, 116.69, 31.26, 0.8125, 1, 117.31, 30.49, 0.8231, 1, 117.72, 30.34, 0.8338, 1, 117.95, 31.32, 0.8447, 1, 118, 31.64, 0.8557, 1, 117.88, 31.19, 0.8669, 1, 117.59, 30.38, 0.8782, 1, 117.14, 30.03, 0.8896, 1, 116.53, 31, 0.9011, 1, 115.75, 31.53, 0.9127, 1, 114.8, 31.13, 0.9243, 1, 113.68, 30.31, 0.9359, 1, 112.37, 29.76, 0.9473, 1, 110.86, 30.65, 0.9586, 1, 109.16, 31.4, 0.9696, 1, 107.26, 31.09, 0.9801, 1, 105.16, 30.27, 0.9899, 1, 102.86, 29.56, 0.999, 1, 100.33, 30.35, 1.0072, 1, 97.52, 31.3, 1.0144, 1, 94.34, 31.1, 1.0206, 1, 90.61, 30.32, 1.0255, 1, 86.16, 29.56, 1.0285, 1, 80.94, 30.33, 1.0286, 1, 75.15, 31.5, 1.0251, 1, 69.11, 31.52, 1.0184, 1, 63.06, 31.07, 1.009, 1, 57.17, 30.8, 0.9975, 1, 51.56, 32.23, 0.9841, 1, 46.33, 34, 0.9688, 1, 41.5, 34.53, 0.9514, 1, 37.1, 34.34, 0.9317, 1, 33.11, 34.06, 0.9097, 1, 29.48, 34.97, 0.8852, 1, 26.15, 35.26, 0.8584, 1, 23.02, 34.14, 0.8298, 1, 20, 32.41, 0.8, 1, 16.96, 31.13, 0.7695, 1, 13.77, 30.66, 0.7365, 1, 10.47, 28.72, 0.6994, 1, 7.27, 25.3, 0.6577, 0.8, 4.42, 20.94, 0.6116, 0.6, 2.2, 16.76, 0.5617, 0.4, 0.76, 12.11, 0.5091, 0.2, 0.11, 6.21, 0.4549, 0]),
+        CameraDovePath(id: "c", cell: 47.181, cols: 35, rows: 7, ni: 21, nl: 170, no: 21, sheet: "dove-camera-c",
+                       f: [0, -0.03, 0.4, 0, 0.33, 5.58, 0.4491, 0.25, 2.28, 11.98, 0.4939, 0.5, 6.54, 17.61, 0.5327, 0.75, 13.04, 21.89, 0.566, 1, 21.18, 25.08, 0.5956, 1, 30.12, 28.24, 0.624, 1, 39.03, 30.3, 0.6535, 1, 47.34, 30.48, 0.6855, 1, 55, 29.61, 0.72, 1, 62.49, 29.15, 0.7554, 1, 69.86, 29.82, 0.7926, 1, 76.95, 29.61, 0.8325, 1, 83.55, 28.56, 0.8752, 1, 89.48, 27.19, 0.9202, 1, 94.58, 27, 0.9663, 1, 98.82, 27.64, 1.0122, 1, 102.23, 27.08, 1.0563, 1, 105.06, 25.8, 1.0971, 1, 107.71, 24.43, 1.1333, 1, 110.85, 24.75, 1.164, 1, 115.4, 25.58, 1.1887, 1, 122.31, 24.94, 1.2054, 1, 129.64, 23.63, 1.2067, 1, 135.15, 22.45, 1.197, 1, 138.97, 23.14, 1.1822, 1, 141.62, 24.24, 1.1652, 1, 143.48, 23.93, 1.1474, 1, 144.75, 22.96, 1.1293, 1, 145.57, 22.09, 1.1108, 1, 145.96, 22.96, 1.092, 1, 145.93, 24.05, 1.073, 1, 145.49, 23.87, 1.0535, 1, 144.67, 23.14, 1.0338, 1, 143.5, 22.59, 1.0139, 1, 142.06, 23.71, 0.994, 1, 140.41, 24.85, 0.9743, 1, 138.6, 24.84, 0.9548, 1, 136.64, 24.36, 0.9357, 1, 134.56, 24.11, 0.917, 1, 132.34, 25.35, 0.8987, 1, 129.98, 26.42, 0.8808, 1, 127.44, 26.47, 0.8633, 1, 124.7, 26.08, 0.8462, 1, 121.69, 25.94, 0.8293, 1, 118.36, 27.1, 0.8128, 1, 114.7, 28.02, 0.7967, 1, 110.76, 28.03, 0.7811, 1, 106.63, 27.69, 0.7661, 1, 102.39, 27.6, 0.7519, 1, 98.11, 28.73, 0.7383, 1, 93.83, 29.62, 0.7254, 1, 89.58, 29.7, 0.7132, 1, 85.37, 29.44, 0.7018, 1, 81.19, 29.37, 0.6911, 1, 77.01, 30.36, 0.681, 1, 72.83, 31.18, 0.6715, 1, 68.63, 31.23, 0.6626, 1, 64.37, 30.92, 0.6543, 1, 60.02, 30.7, 0.6465, 1, 55.53, 31.42, 0.6394, 1, 50.98, 32.04, 0.6332, 1, 46.4, 31.88, 0.6277, 1, 41.72, 31.33, 0.6228, 1, 37.07, 30.79, 0.6184, 1, 32.59, 31.17, 0.6141, 1, 28.38, 31.69, 0.6099, 1, 24.53, 31.53, 0.6058, 1, 21.05, 31.05, 0.6019, 1, 17.91, 30.58, 0.5984, 1, 14.9, 30.98, 0.5953, 1, 11.7, 31.63, 0.5923, 1, 8.24, 31.58, 0.5897, 1, 4.51, 31.17, 0.588, 1, 0.56, 30.72, 0.588, 1, -3.13, 31.06, 0.5909, 1, -6.22, 31.69, 0.5958, 1, -8.96, 31.6, 0.6019, 1, -11.76, 31.11, 0.609, 1, -14.92, 30.57, 0.617, 1, -18.7, 30.93, 0.6251, 1, -23.36, 31.63, 0.6322, 1, -28.81, 31.6, 0.638, 1, -34.78, 31.2, 0.6438, 1, -41.01, 30.81, 0.6509, 1, -47.03, 31.43, 0.6604, 1, -52.43, 32.26, 0.6728, 1, -57.16, 32.28, 0.6875, 1, -61.43, 31.93, 0.7039, 1, -65.37, 31.98, 0.722, 1, -69.08, 32.16, 0.7416, 1, -72.62, 32.17, 0.7628, 1, -76.04, 32.07, 0.7857, 1, -79.37, 31.68, 0.8105, 1, -82.65, 30.83, 0.8371, 1, -85.85, 30.73, 0.8659, 1, -88.95, 30.76, 0.897, 1, -91.92, 29.63, 0.9305, 1, -94.73, 27.97, 0.9661, 1, -97.36, 26.55, 1.003, 1, -99.85, 26.89, 1.04, 1, -102.28, 27.33, 1.0753, 1, -104.67, 26.62, 1.107, 1, -107.01, 25.37, 1.1333, 1, -109.48, 24.33, 1.1553, 1, -112.88, 25.07, 1.1772, 1, -118.56, 25.63, 1.1986, 1, -126.14, 24.82, 1.2079, 1, -132.61, 23.53, 1.2028, 1, -137.19, 22.58, 1.1901, 1, -140.36, 23.52, 1.1742, 1, -142.57, 24.45, 1.157, 1, -144.12, 24.05, 1.1392, 1, -145.16, 23.09, 1.1212, 1, -145.78, 22.3, 1.1029, 1, -146, 23.22, 1.0843, 1, -145.81, 24.28, 1.0653, 1, -145.22, 24.14, 1.046, 1, -144.27, 23.47, 1.0265, 1, -143.02, 22.9, 1.0069, 1, -141.53, 23.84, 0.9873, 1, -139.84, 25.1, 0.9679, 1, -138, 25.24, 0.9488, 1, -136.03, 24.85, 0.93, 1, -133.94, 24.45, 0.9117, 1, -131.7, 25.34, 0.8937, 1, -129.31, 26.65, 0.8761, 1, -126.74, 26.91, 0.8588, 1, -123.95, 26.63, 0.8418, 1, -120.87, 26.27, 0.8251, 1, -117.46, 27, 0.8087, 1, -113.72, 28.22, 0.7927, 1, -109.72, 28.49, 0.7773, 1, -105.55, 28.25, 0.7625, 1, -101.29, 27.94, 0.7483, 1, -97, 28.64, 0.7348, 1, -92.72, 29.83, 0.7221, 1, -88.47, 30.14, 0.71, 1, -84.26, 29.95, 0.6988, 1, -80.06, 29.68, 0.6881, 1, -75.85, 30.35, 0.6781, 1, -71.62, 31.4, 0.6687, 1, -67.34, 31.6, 0.6598, 1, -62.97, 31.33, 0.6516, 1, -58.47, 30.99, 0.644, 1, -53.89, 31.52, 0.6373, 1, -49.26, 32.26, 0.6315, 1, -44.58, 32.14, 0.6263, 1, -39.8, 31.58, 0.6216, 1, -35.14, 30.99, 0.6171, 1, -30.74, 31.37, 0.6126, 1, -26.71, 31.87, 0.608, 1, -23.11, 31.65, 0.6034, 1, -19.95, 31.1, 0.5993, 1, -17.12, 30.64, 0.5957, 1, -14.26, 31.15, 0.5923, 1, -11.13, 31.64, 0.5888, 1, -7.71, 31.43, 0.5858, 1, -3.97, 30.91, 0.5838, 1, 0, 30.51, 0.5839, 1, 3.57, 31.03, 0.5874, 1, 6.47, 31.49, 0.5927, 1, 9.01, 31.28, 0.599, 1, 11.57, 30.75, 0.6063, 1, 14.43, 30.33, 0.6145, 1, 17.86, 30.9, 0.6231, 1, 22.13, 31.47, 0.6309, 1, 27.33, 31.36, 0.6372, 1, 33.15, 30.94, 0.6429, 1, 39.36, 30.63, 0.6493, 1, 45.51, 31.34, 0.6578, 1, 51.11, 32.14, 0.6693, 1, 55.98, 32.09, 0.6833, 1, 60.32, 31.98, 0.6992, 1, 64.3, 32.06, 0.7166, 1, 68.02, 32.16, 0.7355, 1, 71.55, 32.2, 0.756, 1, 74.94, 32.19, 0.778, 1, 78.24, 31.81, 0.8018, 1, 81.49, 30.83, 0.8274, 1, 84.66, 30.84, 0.855, 1, 87.76, 30.97, 0.8848, 1, 90.74, 29.96, 0.9169, 1, 93.59, 28.33, 0.9511, 1, 96.25, 26.73, 0.9871, 1, 98.76, 26.7, 1.0237, 1, 101.18, 27.27, 1.0596, 1, 103.57, 26.71, 1.0929, 1, 105.9, 25.52, 1.1215, 1, 108.23, 24.29, 1.1449, 1, 111, 24.72, 1.1661, 1, 115.4, 25.58, 1.1887, 1, 121.91, 24.98, 1.2059, 1, 128.64, 23.86, 1.2089, 1, 133.92, 23.14, 1.1934, 1, 136.79, 24.69, 1.1594, 1, 136.86, 26.87, 1.1095, 1, 134.2, 27.83, 1.0487, 1, 129.19, 28.23, 0.9828, 1, 122.43, 28.71, 0.9179, 1, 114.59, 30.38, 0.8593, 1, 106.31, 31.31, 0.8102, 1, 98.06, 30.8, 0.7715, 1, 90, 29.64, 0.74, 1, 81.47, 28.88, 0.7102, 1, 70.58, 28.83, 0.6811, 1, 56.89, 27.36, 0.652, 1, 41.5, 24.4, 0.6215, 0.8, 26.34, 20.43, 0.5878, 0.6, 13.56, 16.5, 0.5491, 0.4, 4.83, 12.02, 0.5046, 0.2, 0.72, 6.19, 0.4542, 0]),
         CameraDovePath(id: "f", cell: 47.168, cols: 48, rows: 4, ni: 21, nl: 150, no: 21, sheet: "dove-camera-f",
                        f: [0, 0.26, 0.4, 0, -0.02, 5.72, 0.4488, 0.25, -0.11, 11.32, 0.4916, 0.5, -0.32, 17.3, 0.5265, 0.75, -0.66, 21.67, 0.5542, 1, -1.1, 24.47, 0.5774, 1, -1.61, 26.36, 0.5993, 1, -2.16, 28.55, 0.6225, 1, -2.72, 29.62, 0.6478, 1, -3.3, 29.77, 0.6735, 1, -3.96, 29.62, 0.6992, 1, -4.73, 30.45, 0.7244, 1, -5.6, 32.04, 0.7488, 1, -6.53, 32.46, 0.7717, 1, -7.47, 32.15, 0.7924, 1, -8.32, 31.91, 0.8105, 1, -9.02, 33.25, 0.8253, 1, -9.51, 33.97, 0.8366, 1, -9.74, 33.46, 0.8443, 1, -9.72, 32.48, 0.8486, 1, -9.46, 32.73, 0.8503, 1, -9.07, 33.83, 0.8505, 1, -8.67, 33.62, 0.8504, 1, -8.38, 32.84, 0.8503, 1, -8.32, 32.6, 0.8504, 1, -8.54, 34.19, 0.8505, 1, -9.04, 34.84, 0.8507, 1, -9.68, 34.48, 0.851, 1, -10.3, 33.88, 0.8514, 1, -10.71, 34.88, 0.8519, 1, -10.83, 35.79, 0.8525, 1, -10.68, 35.23, 0.8531, 1, -10.39, 34.06, 0.8539, 1, -10.14, 33.9, 0.8547, 1, -10.08, 34.94, 0.8556, 1, -10.24, 34.66, 0.8566, 1, -10.57, 33.71, 0.8577, 1, -10.93, 33.14, 0.8588, 1, -11.27, 34.72, 0.8599, 1, -11.57, 35.51, 0.8612, 1, -11.77, 35.15, 0.8624, 1, -11.92, 34.43, 0.8636, 1, -12.1, 35.19, 0.8649, 1, -12.4, 36.12, 0.8661, 1, -12.84, 35.53, 0.8674, 1, -13.36, 34.26, 0.8686, 1, -13.86, 33.72, 0.8697, 1, -14.26, 34.67, 0.8708, 1, -14.51, 34.4, 0.8718, 1, -14.63, 33.29, 0.8728, 1, -14.81, 32.46, 0.8736, 1, -15.24, 33.45, 0.8743, 1, -15.92, 34.26, 0.8749, 1, -16.75, 33.79, 0.8754, 1, -17.54, 32.84, 0.8757, 1, -18.08, 32.92, 0.8759, 1, -18.24, 34.31, 0.8759, 1, -17.95, 34.46, 0.8758, 1, -17.34, 33.86, 0.8755, 1, -16.58, 33.36, 0.8751, 1, -15.88, 34.68, 0.8745, 1, -15.4, 35.69, 0.8738, 1, -15.18, 35.39, 0.873, 1, -15.17, 34.51, 0.872, 1, -15.25, 34.56, 0.8709, 1, -15.31, 35.68, 0.8697, 1, -14.61, 35.63, 0.8684, 1, -12.69, 34.72, 0.867, 1, -9.88, 33.91, 0.8656, 1, -6.52, 34.91, 0.8641, 1, -2.91, 35.41, 0.8626, 1, 0.74, 34.77, 0.861, 1, 4.24, 33.77, 0.8595, 1, 7.45, 34.15, 0.858, 1, 10.15, 35.22, 0.8565, 1, 12.06, 34.81, 0.855, 1, 12.8, 33.64, 0.8536, 1, 12.76, 33.27, 0.8522, 1, 12.55, 34.46, 0.851, 1, 12.17, 34.46, 0.8498, 1, 11.74, 33.51, 0.8488, 1, 11.44, 32.56, 0.8478, 1, 11.44, 33.48, 0.847, 1, 11.8, 34.18, 0.8464, 1, 12.5, 33.7, 0.8458, 1, 13.36, 32.86, 0.8454, 1, 14.18, 33.35, 0.8451, 1, 14.75, 34.67, 0.845, 1, 14.98, 34.57, 0.845, 1, 14.87, 33.78, 0.8452, 1, 14.52, 33.49, 0.8455, 1, 14.07, 34.87, 0.8459, 1, 13.37, 35.46, 0.8465, 1, 12.23, 35.09, 0.8471, 1, 10.74, 34.56, 0.8479, 1, 8.91, 35.64, 0.8488, 1, 6.82, 36.71, 0.8497, 1, 4.58, 36.35, 0.8508, 1, 2.38, 35.3, 0.8519, 1, 0.4, 34.97, 0.8531, 1, -1.21, 35.86, 0.8543, 1, -2.39, 35.43, 0.8555, 1, -3.19, 34.12, 0.8567, 1, -3.71, 32.86, 0.858, 1, -4.03, 33.45, 0.8592, 1, -4.17, 33.93, 0.8604, 1, -4.32, 33.51, 0.8616, 1, -4.61, 32.73, 0.8628, 1, -4.86, 33.02, 0.8639, 1, -4.92, 34.52, 0.8649, 1, -4.76, 34.66, 0.8658, 1, -4.43, 33.92, 0.8667, 1, -4.07, 33.17, 0.8675, 1, -3.85, 34.13, 0.8682, 1, -3.88, 34.67, 0.8688, 1, -4.17, 34, 0.8693, 1, -4.64, 32.96, 0.8697, 1, -5.15, 33.16, 0.8701, 1, -5.6, 34.51, 0.8703, 1, -5.9, 34.55, 0.8704, 1, -6.09, 33.88, 0.8705, 1, -6.2, 33.46, 0.8705, 1, -6.29, 34.84, 0.8704, 1, -6.37, 35.43, 0.8702, 1, -6.37, 34.84, 0.87, 1, -6.19, 33.88, 0.8697, 1, -5.23, 34.7, 0.8693, 1, -3.08, 35.97, 0.869, 1, -0.03, 35.78, 0.8685, 1, 3.54, 34.93, 0.8681, 1, 7.24, 34.79, 0.8676, 1, 10.74, 36.06, 0.8671, 1, 13.8, 35.93, 0.8666, 1, 16.34, 34.78, 0.8661, 1, 18.36, 33.61, 0.8656, 1, 19.88, 34.23, 0.8651, 1, 20.86, 34.29, 0.8646, 1, 21.18, 33.19, 0.8641, 1, 21.17, 32.1, 0.8637, 1, 21.25, 32.64, 0.8632, 1, 21.31, 33.9, 0.8628, 1, 21.29, 33.84, 0.8623, 1, 21.22, 33.22, 0.8619, 1, 21.17, 33.27, 0.8615, 1, 21.23, 34.85, 0.8611, 1, 21.43, 35.17, 0.8607, 1, 21.73, 34.45, 0.8603, 1, 22.04, 33.56, 0.8599, 1, 22.25, 34.33, 0.8595, 1, 22.32, 34.99, 0.8591, 1, 21.73, 34.64, 0.8588, 1, 20.16, 33.85, 0.8584, 1, 17.91, 34.07, 0.8579, 1, 15.23, 35.62, 0.8575, 1, 12.27, 35.91, 0.8571, 1, 9.1, 35.35, 0.8567, 1, 5.72, 34.73, 0.8562, 1, 2.12, 35.72, 0.8558, 1, -1.58, 36.34, 0.8553, 1, -5.17, 35.61, 0.8548, 1, -8.32, 34.31, 0.8544, 1, -10.64, 33.98, 0.8539, 1, -11.75, 34.84, 0.8535, 1, -11.98, 34.66, 0.853, 1, -11.87, 33.72, 0.8526, 1, -11.52, 32.9, 0.8522, 1, -11.07, 33.87, 0.8518, 1, -10.63, 34.36, 0.8514, 1, -10.23, 33.66, 0.8511, 1, -9.86, 32.55, 0.8508, 1, -9.48, 32.73, 0.8506, 1, -9.07, 33.83, 0.8505, 1, -8.65, 33.61, 0.85, 1, -8.24, 32.77, 0.8475, 1, -7.81, 32.37, 0.8418, 1, -7.38, 33.64, 0.832, 1, -6.92, 33.92, 0.8181, 1, -6.45, 33.13, 0.8003, 1, -5.96, 32.07, 0.7791, 1, -5.45, 32.36, 0.7554, 1, -4.93, 32.63, 0.73, 1, -4.39, 31.59, 0.7037, 1, -3.84, 30, 0.6772, 1, -3.28, 29.01, 0.6511, 1, -2.72, 28.99, 0.6252, 1, -2.16, 27.91, 0.6006, 1, -1.61, 25.83, 0.5807, 1, -1.1, 23.08, 0.5649, 0.8, -0.66, 20.63, 0.5492, 0.6, -0.32, 16.95, 0.5281, 0.4, -0.11, 11.66, 0.4967, 0.2, -0.02, 5.57, 0.453, 0]),
     ]
